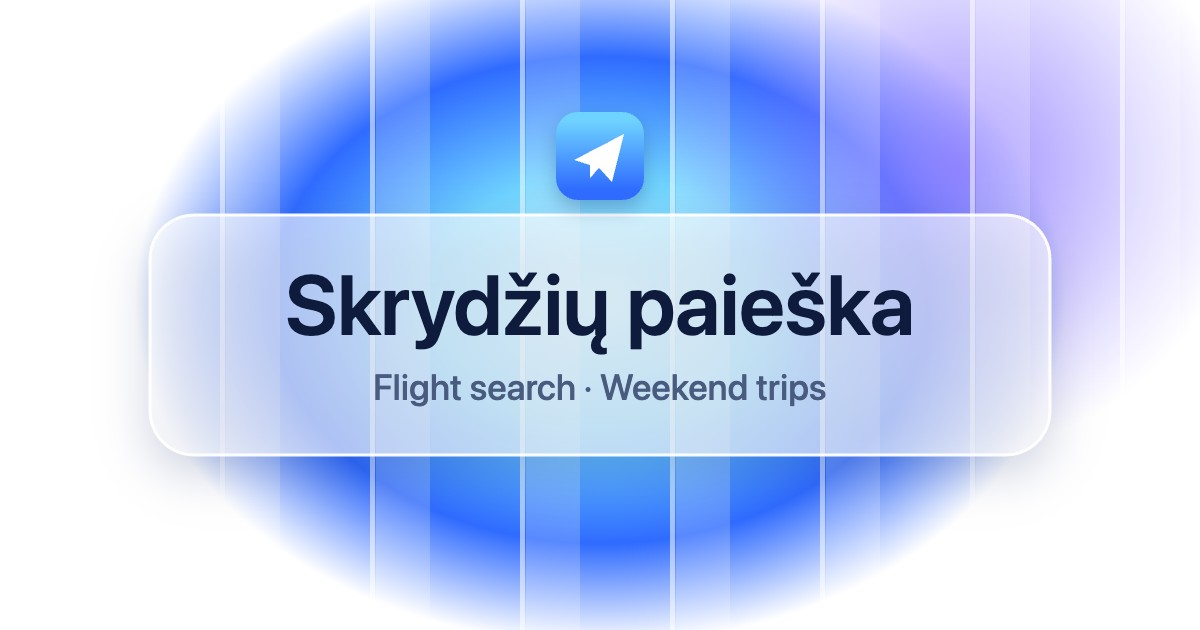
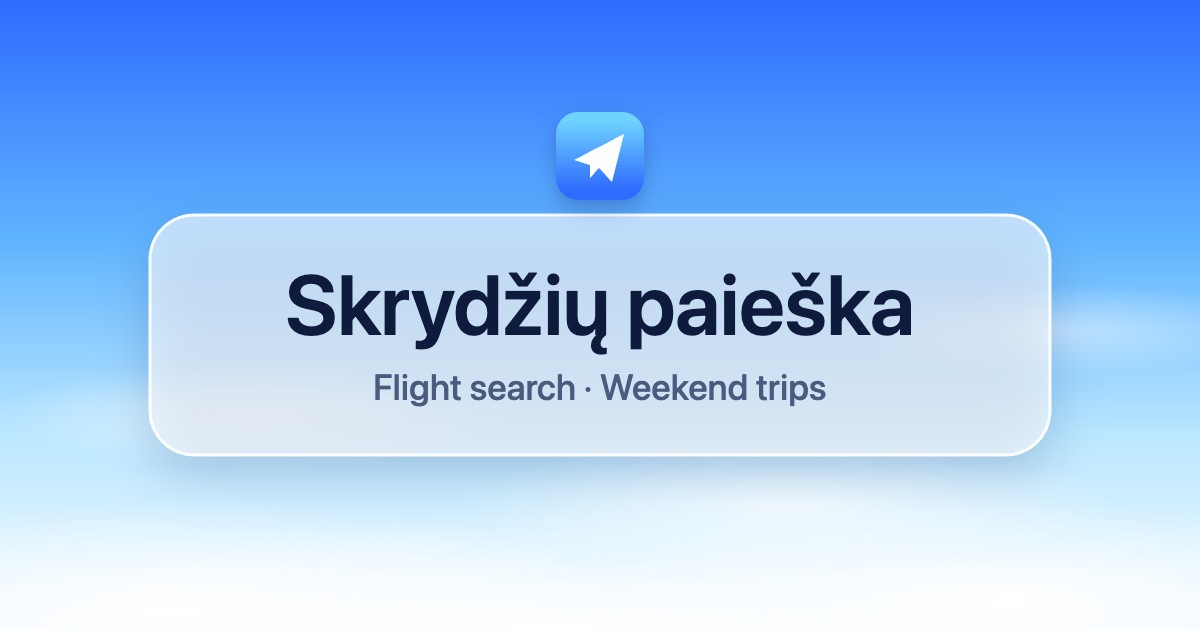
Fonas: dangus virš debesų; dalijimosi paveikslėlis atnaujintas

diff --git a/style.css b/style.css
@@ -352,3 +352,17 @@ body::after {
     rgba(255, 255, 255, .55) 90px, rgba(255, 255, 255, 0) 95px,
     rgba(255, 255, 255, .2) 96px, rgba(255, 255, 255, 0) 150px);
 }
+
+/* ===== Fonas: dangus virš debesų (mėlynas dangus, balti debesys apačioje) ===== */
+html { background: #5FB4FF; }
+body::before {
+  background: linear-gradient(180deg, #2F6BFF 0%, #5FB4FF 38%, #BDE8FF 70%, #F2FAFF 100%);
+}
+body::after {
+  background:
+    radial-gradient(ellipse 38% 16% at 14% 96%, #fff 0%, rgba(255, 255, 255, 0) 100%),
+    radial-gradient(ellipse 44% 20% at 46% 100%, #fff 0%, rgba(255, 255, 255, 0) 100%),
+    radial-gradient(ellipse 36% 15% at 84% 94%, #fff 0%, rgba(255, 255, 255, 0) 100%),
+    radial-gradient(ellipse 26% 10% at 66% 80%, rgba(255, 255, 255, .7) 0%, rgba(255, 255, 255, 0) 100%),
+    radial-gradient(ellipse 22% 9% at 22% 66%, rgba(255, 255, 255, .55) 0%, rgba(255, 255, 255, 0) 100%);
+}
